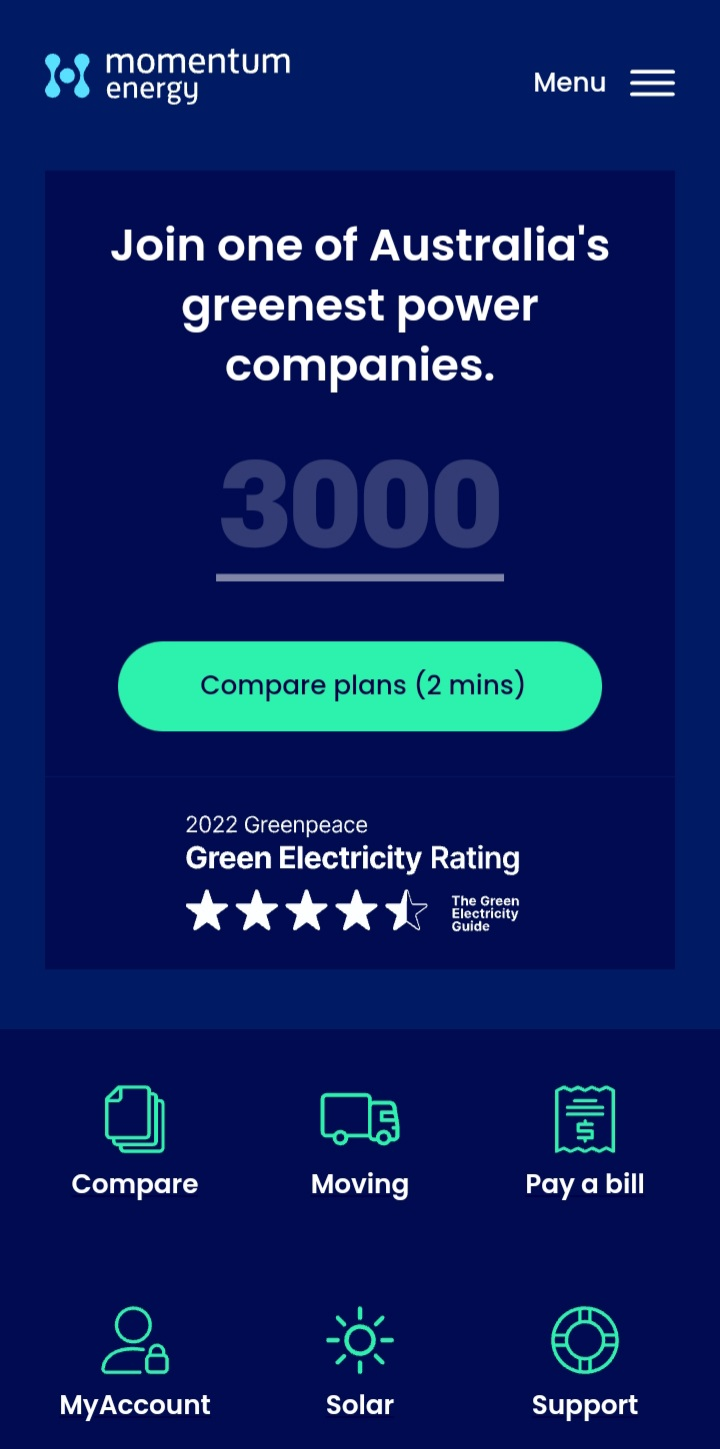
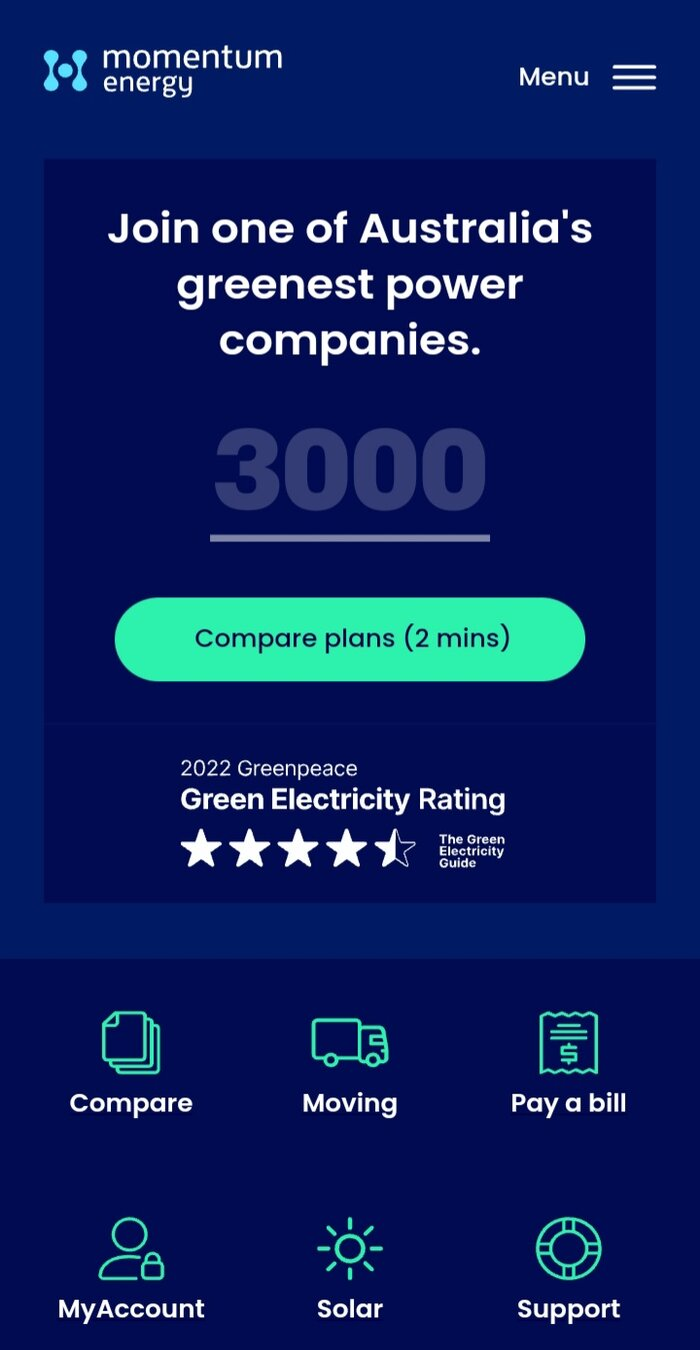
update

Changed region(s): [[0.66, 0.6222, 0.69, 0.6533], [0.45, 0.56, 0.48, 0.5911], [0.3, 0.56, 0.33, 0.5911]]

diff --git a/lesson2/design-principles.html b/lesson2/design-principles.html
@@ -24,7 +24,7 @@
         <h3>White space and clean design</h3>
         <p> Quip</p>
         <a target="_blank" href="https://www.getquip.com/">getquip.com</a>
-        <img id="first" src="" alt="Image of the Quip Website">
+        <img id="first" src="" alt="Image of the Quip Website" width="700" height="1400">
         <p> White space and clean design are central to web design and this website bring it out well. 
             The website has used adequate white space so well to grasp the attention of users.
             The design relates so well with the white space, looks nice and very appealing to the eyes.</p>
@@ -33,7 +33,7 @@
         <h3>Alignment</h3>
         <p> Momentum Energy</p>
         <a target="_blank" href="https://www.momentumenergy.com.au/">momentumenergy.com</a>
-        <img id="second" src="" alt="Image of Momentum Energy Website">
+        <img id="second" src="" alt="Image of Momentum Energy Website" width="700" height="1400">
         <p>The website is well aligned and arranged. The items have been centred well on the Pages.
             The icons are well distributed horiontally and vertically making it appealing to the user.
             The spacing has also been done beautifully making it easier to navigate on the website.</p>
@@ -42,7 +42,7 @@
         <h3>Contrast</h3>
         <p> Square Space</p>
         <a target="_blank" href="https://www.squarespace.com/">squarespace.com</a>
-        <img id ="third" src="" alt="Image of Squarespace Website">
+        <img id ="third" src="" alt="Image of Squarespace Website" width="700" height="1400">
         <p> The website has used colors that marry each other hence blending so well. 
             The contrast make the website appealing to users and can easily be navigated. 
             It is simple and visually appealing. I love the contrast used on the website.
